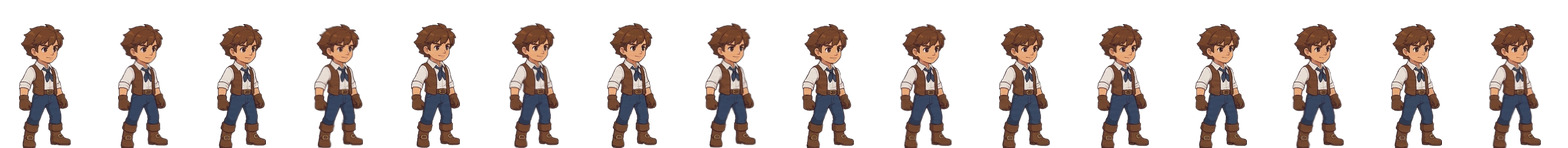
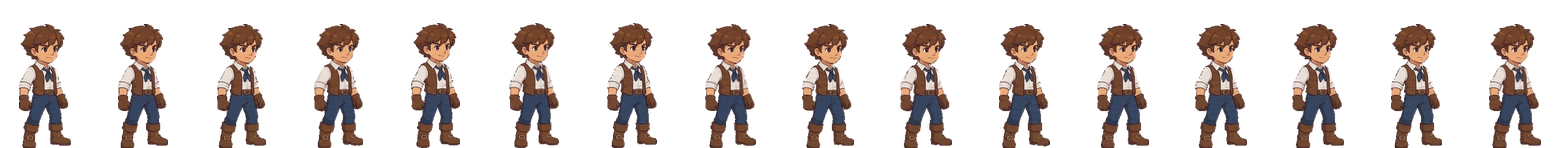
Arthur walk + idle: remove white fringe from Sprixen's background removal
Edge pixels that were blended with the old white backdrop are cleared (or take
the colour of the nearest solid pixel), so no white outline shows in the gaps
between the arms and body. Same clean-up applied to the idle sheet
(tools/sprixen/clean_sheet.py).

Claude-Session: https://claude.ai/code/session_01BTTj8a1B5QVYLgtfGJQMDk

diff --git a/tools/sprixen/lock_head.py b/tools/sprixen/lock_head.py
@@ -31,6 +31,34 @@ def rgba(im):
     return np.array(im).astype(np.float32)
 
 
+def clean_body(f):
+    """Undo Sprixen's background-removal leftovers on the body.
+    - haze: cool (bluish/greenish) light pixels -> cleared
+    - white fringe: pixels within 2px of the outside that are not fully opaque and are much
+      lighter than the nearest fully opaque pixel were blended with the old white backdrop
+      -> cleared; the rest of the soft edge takes the colour of the nearest opaque pixel
+    - everything left above ALPHA_CUT becomes fully opaque (the far arm is partly see-through)
+    """
+    A = f[:, :, 3]
+    rgb = f[:, :, :3]
+    solid = A >= ALPHA_CUT
+    solid &= ~((rgb.min(2) > 140) & (rgb[:, :, 0] < np.maximum(rgb[:, :, 1], rgb[:, :, 2]) - 2))
+    interior = solid & (A >= 245)
+    _, (iy, ix) = ndimage.distance_transform_edt(~interior, return_indices=True)
+    near = rgb[iy, ix]
+    lum = rgb.mean(2)
+    lighter = lum - near.mean(2)
+    outside_d = ndimage.distance_transform_edt(solid)
+    soft = solid & ~interior & (outside_d <= 2.5)   # only the edge band; deeper see-through pixels keep their colour
+    fringe = soft & (outside_d <= 2.5) & (lighter > 30)
+    solid &= ~fringe
+    soft &= ~fringe
+    f = f.copy()
+    f[soft, :3] = near[soft]
+    f[:, :, 3] = np.where(solid, 255, 0)
+    return f
+
+
 def find_head(frame, face, fx0, search=28):
     """Best (dx, dy) placing the base face into the frame."""
     fa = face[:, :, 3:4] / 255.0
@@ -106,6 +134,7 @@ def main():
         # erase the frame's own head: everything above the collar line
         cut = y0 + hh - FEATHER
         f[:max(cut, 0)] = 0
+        f = clean_body(f)
         # hair warp: shift each hair row vertically by hair_dy * weight (1 at top -> 0 at brow)
         h = head.copy()
         brow_r = BROW - HEAD_TOP
@@ -129,14 +158,7 @@ def main():
         rgb = (src[:, :, :3] * sa + dst[:, :, :3] * da * (1 - sa)) / np.maximum(oa, 1e-6)
         f[ya:yb, xa:xb, :3] = rgb
         f[ya:yb, xa:xb, 3:4] = oa * 255
-        # clean the matte: haze (e.g. pale film between arm and body) -> clear, near-solid -> solid
         solid = f[:, :, 3] >= ALPHA_CUT
-        f[:, :, 3] = np.where(solid, 255, 0)
-        # pale haze left by background removal (e.g. between the arm and body) is a cool,
-        # bluish/greenish white; Arthur's shirt and skin are warm (red highest), so cool light pixels go
-        rgb_ = f[:, :, :3]
-        haze = solid & (rgb_.min(2) > 140) & (rgb_[:, :, 0] < np.maximum(rgb_[:, :, 1], rgb_[:, :, 2]) - 2)
-        solid &= ~haze
         f[:, :, 3] = np.where(solid, 255, 0)
         # holes just under the chin (see-through collar) -> fill from the approved sprite's collar
         holes, nh = ndimage.label(ndimage.binary_fill_holes(solid) & ~solid)

diff --git a/tools/sprixen/clean_sheet.py b/tools/sprixen/clean_sheet.py
@@ -1,0 +1,11 @@
+"""Apply lock_head.clean_body (white fringe / haze clean-up) to every frame of a sheet,
+without replacing the head. usage: python3 clean_sheet.py <sheet.png> <out.png>"""
+import sys
+import numpy as np
+from PIL import Image
+from lock_head import clean_body, SRC
+
+im = np.array(Image.open(sys.argv[1]).convert("RGBA")).astype(np.float32)
+for i in range(im.shape[1] // SRC):
+    im[:, i * SRC:(i + 1) * SRC] = clean_body(im[:, i * SRC:(i + 1) * SRC])
+Image.fromarray(np.clip(im, 0, 255).astype(np.uint8)).save(sys.argv[2])
